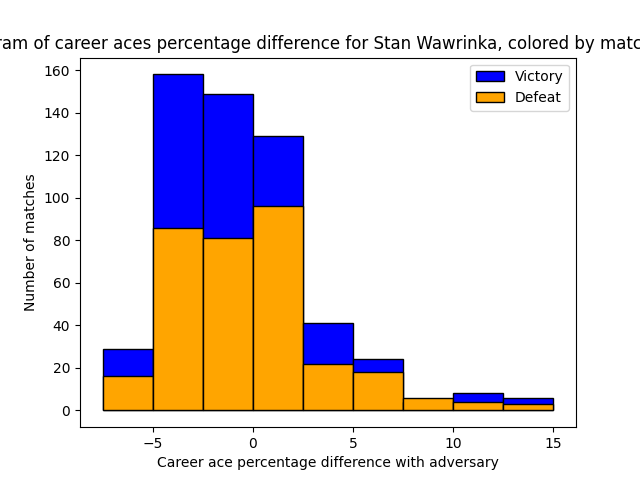
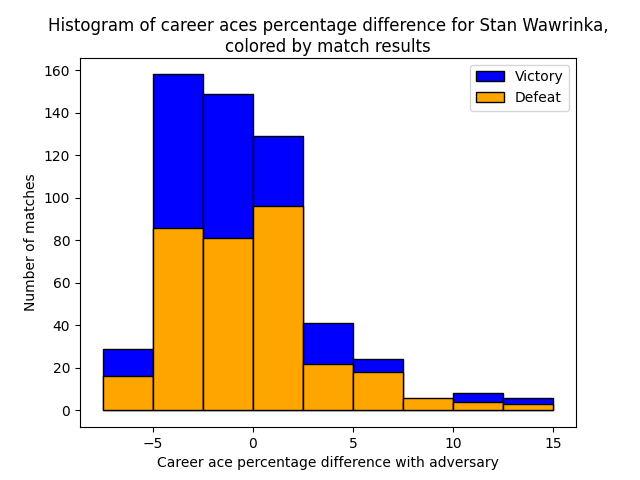
enh plot title

Changed region(s): [[0.0, 0.0312, 1.0, 0.125]]

diff --git a/examples/data/data_loading.py b/examples/data/data_loading.py
@@ -174,7 +174,7 @@ for min_class, max_class in zip(classes[:-1], classes[1:]):
 ax.autoscale_view()
 ax.set_xlabel('Career ace percentage difference with adversary')
 ax.set_ylabel('Number of matches')
-ax.set_title("Histogram of career aces percentage difference for Stan Wawrinka, colored by match results")
+ax.set_title("Histogram of career aces percentage difference for Stan Wawrinka, colored by match results", wrap=True)
 handles, labels = plt.gca().get_legend_handles_labels()
 by_label = dict(zip(labels, handles))
 plt.legend(by_label.values(), by_label.keys())
